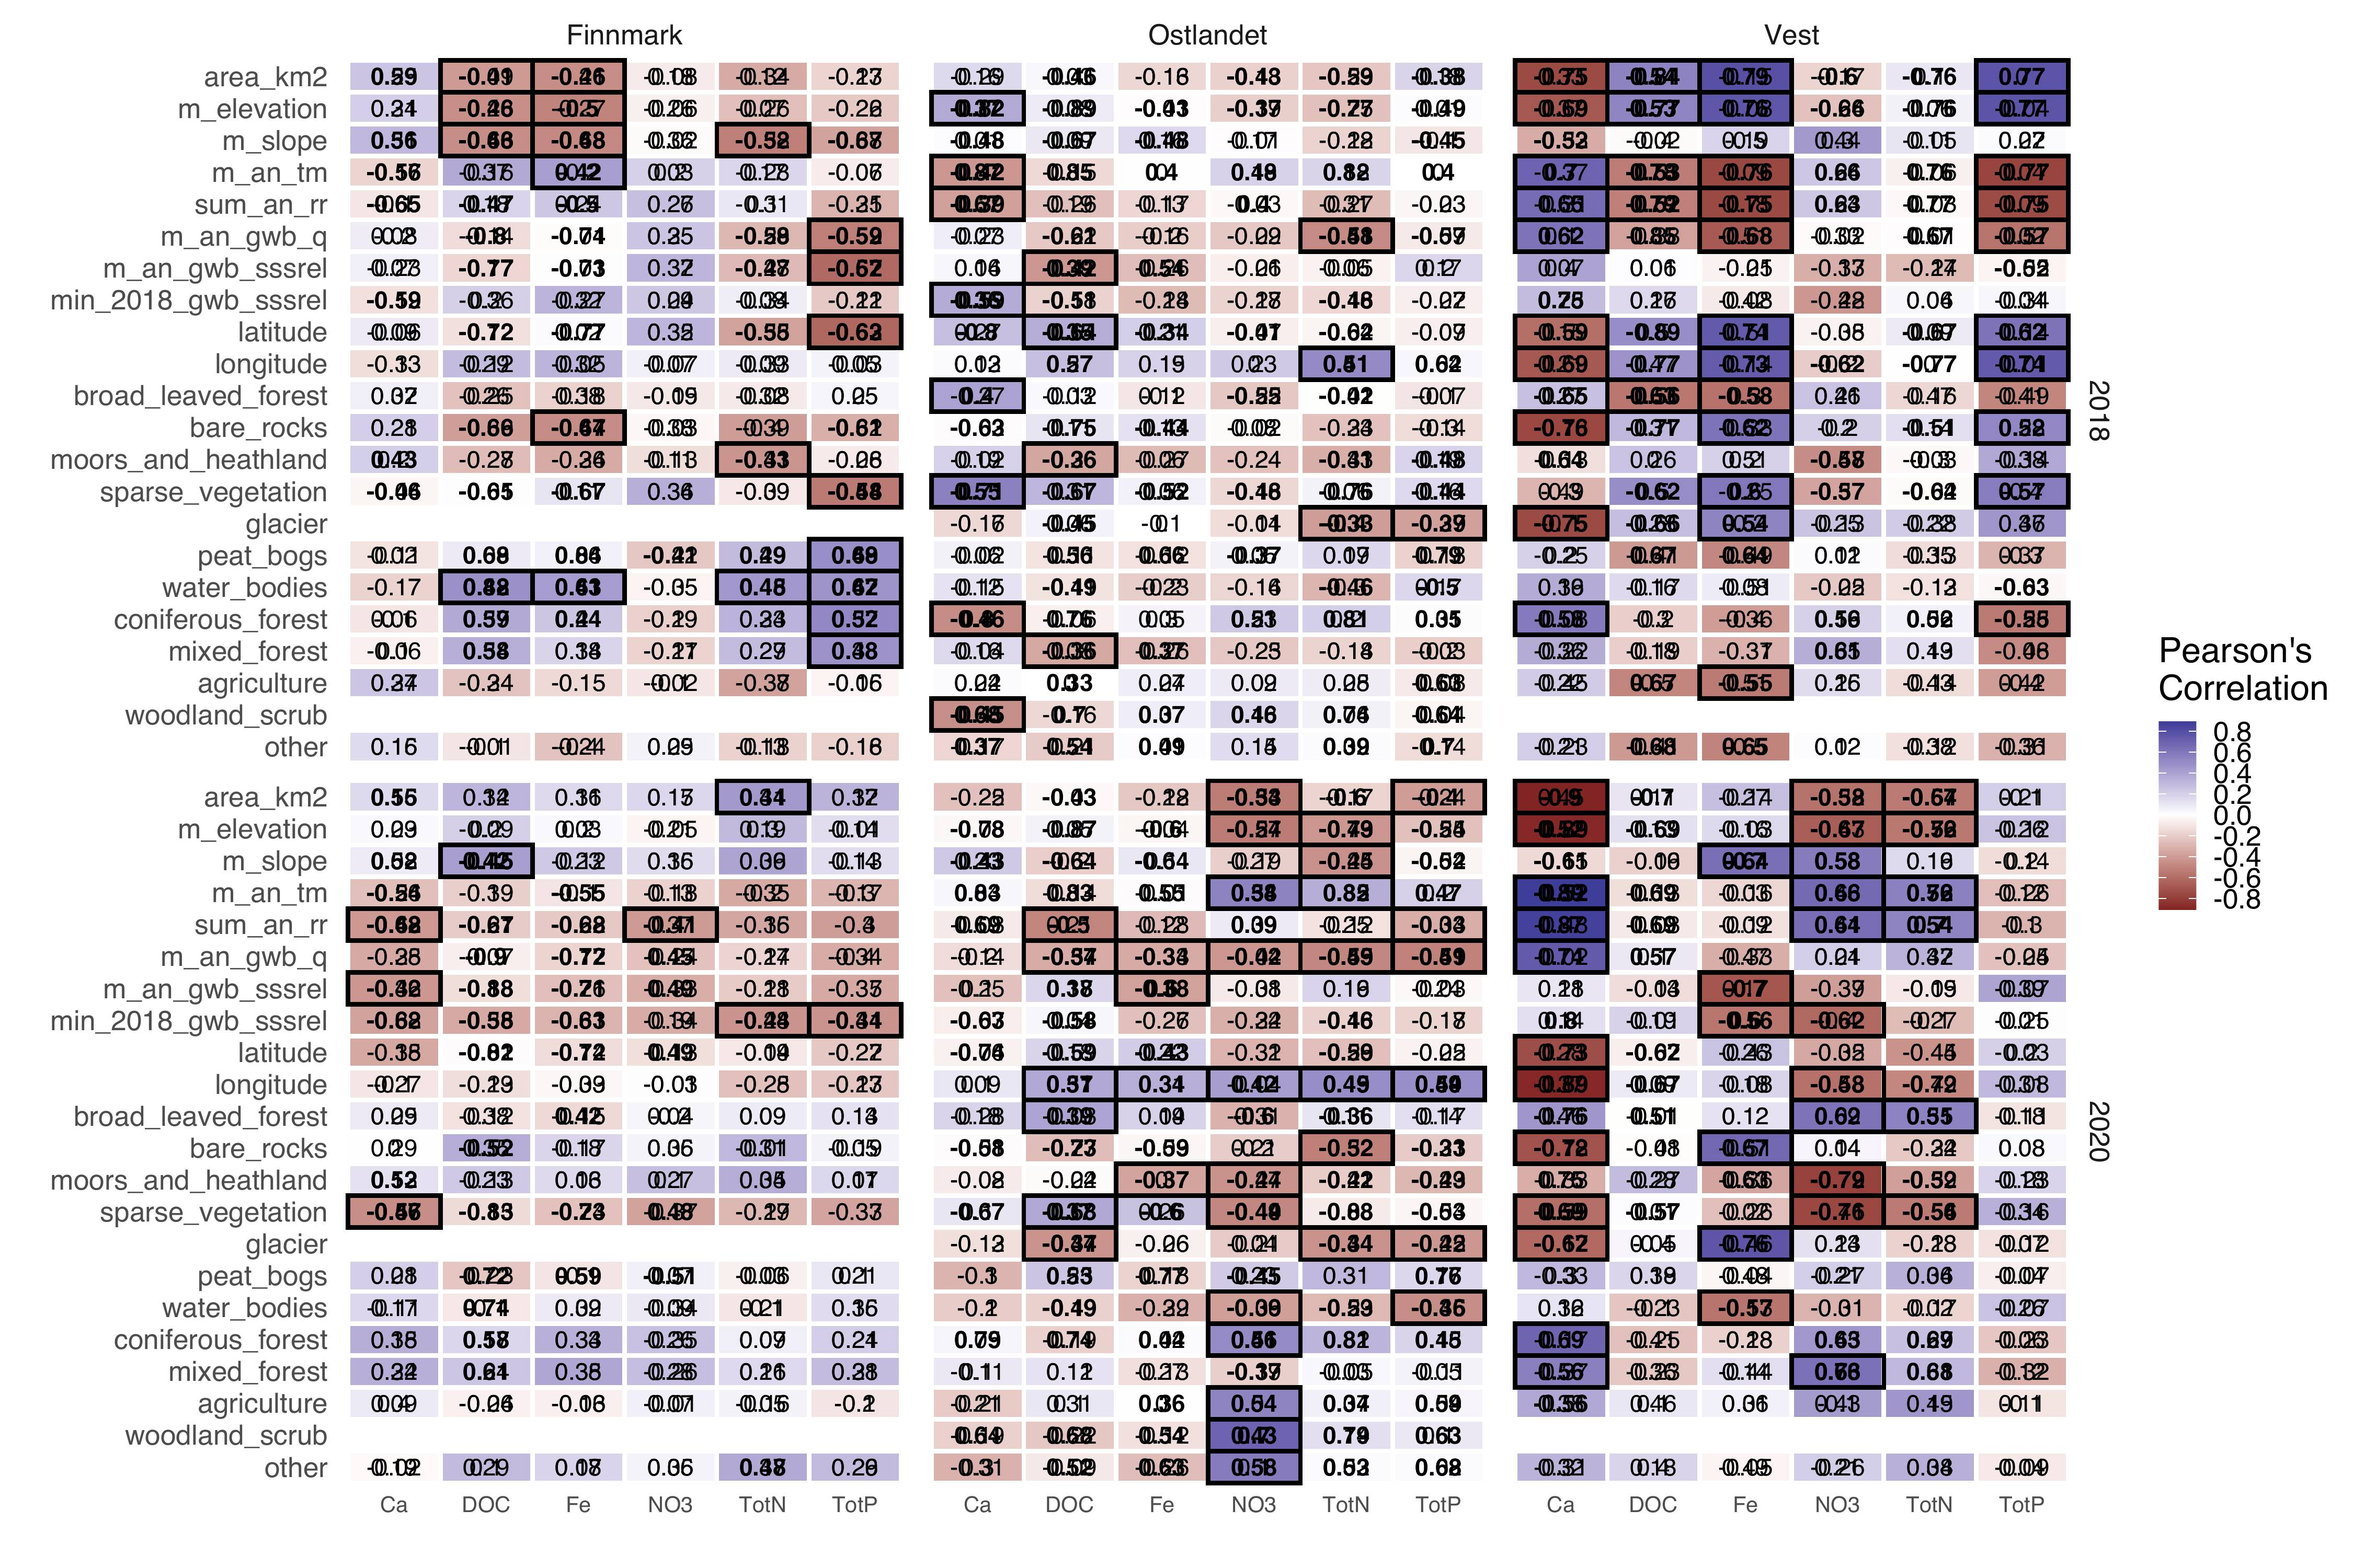
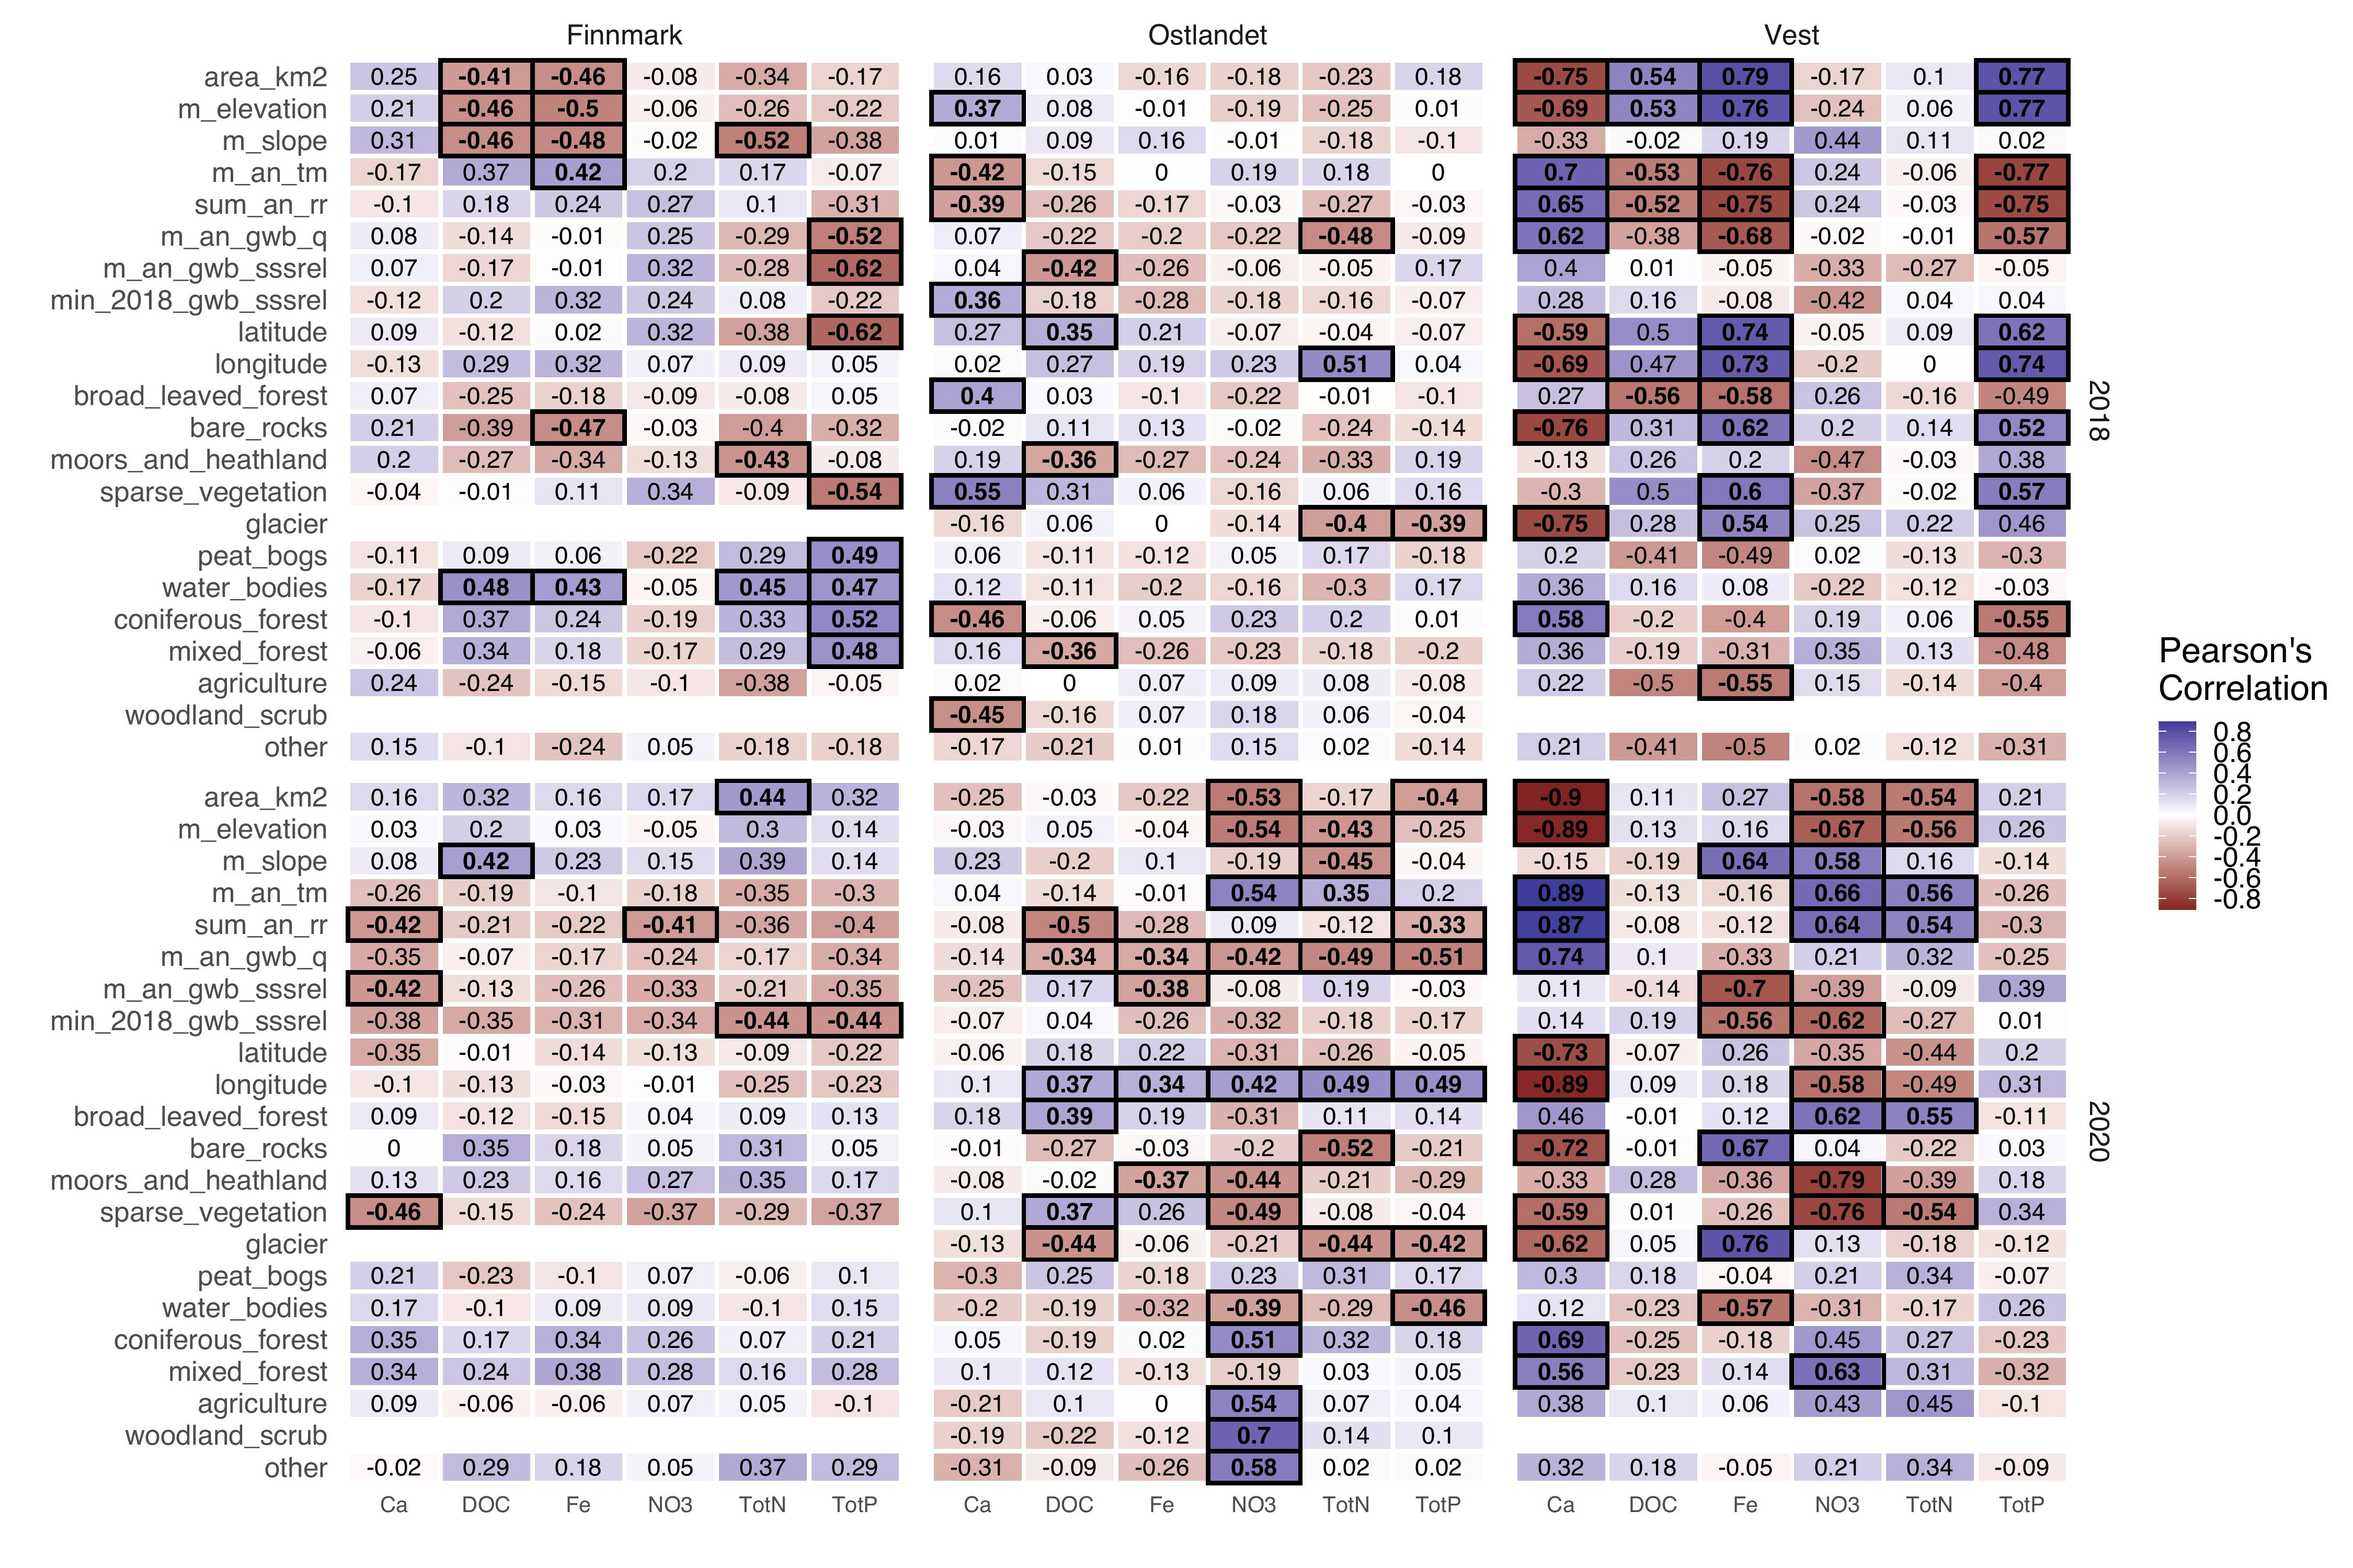
corrplot fix

diff --git a/docs/book_fluxes.html b/docs/book_fluxes.html
@@ -114,6 +114,7 @@ ul.task-list{list-style: none;}
    
   <ul>
   <li><a href="#stream-flow" id="toc-stream-flow" class="nav-link active" data-scroll-target="#stream-flow">Stream Flow</a></li>
+  <li><a href="#fluxes" id="toc-fluxes" class="nav-link" data-scroll-target="#fluxes">Fluxes</a></li>
   <li><a href="#qc" id="toc-qc" class="nav-link" data-scroll-target="#qc">Q/C</a></li>
   <li><a href="#pearsons-correlation" id="toc-pearsons-correlation" class="nav-link" data-scroll-target="#pearsons-correlation">Pearson’s correlation</a></li>
   </ul>
@@ -141,7 +142,7 @@ ul.task-list{list-style: none;}
 <section id="stream-flow" class="level2">
 <h2 class="anchored" data-anchor-id="stream-flow">Stream Flow</h2>
 <div class="panel-tabset">
-<ul class="nav nav-tabs" role="tablist"><li class="nav-item" role="presentation"><a class="nav-link active" id="tabset-1-1-tab" data-bs-toggle="tab" data-bs-target="#tabset-1-1" role="tab" aria-controls="tabset-1-1" aria-selected="true">Flow Regimes</a></li><li class="nav-item" role="presentation"><a class="nav-link" id="tabset-1-2-tab" data-bs-toggle="tab" data-bs-target="#tabset-1-2" role="tab" aria-controls="tabset-1-2" aria-selected="false">Fluxes</a></li></ul>
+<ul class="nav nav-tabs" role="tablist"><li class="nav-item" role="presentation"><a class="nav-link active" id="tabset-1-1-tab" data-bs-toggle="tab" data-bs-target="#tabset-1-1" role="tab" aria-controls="tabset-1-1" aria-selected="true">Flow Regimes</a></li></ul>
 <div class="tab-content">
 <div id="tabset-1-1" class="tab-pane active" role="tabpanel" aria-labelledby="tabset-1-1-tab">
 <div class="quarto-figure quarto-figure-center">
@@ -151,11 +152,11 @@ ul.task-list{list-style: none;}
 </figure>
 </div>
 </div>
-<div id="tabset-1-2" class="tab-pane" role="tabpanel" aria-labelledby="tabset-1-2-tab">
-
 </div>
 </div>
-</div>
+</section>
+<section id="fluxes" class="level2">
+<h2 class="anchored" data-anchor-id="fluxes">Fluxes</h2>
 <div class="panel-tabset">
 <ul class="nav nav-tabs" role="tablist"><li class="nav-item" role="presentation"><a class="nav-link active" id="tabset-2-1-tab" data-bs-toggle="tab" data-bs-target="#tabset-2-1" role="tab" aria-controls="tabset-2-1" aria-selected="true">2018/2020</a></li><li class="nav-item" role="presentation"><a class="nav-link" id="tabset-2-2-tab" data-bs-toggle="tab" data-bs-target="#tabset-2-2" role="tab" aria-controls="tabset-2-2" aria-selected="false">2019/2021</a></li><li class="nav-item" role="presentation"><a class="nav-link" id="tabset-2-3-tab" data-bs-toggle="tab" data-bs-target="#tabset-2-3" role="tab" aria-controls="tabset-2-3" aria-selected="false">’18/’19/’20/’21</a></li></ul>
 <div class="tab-content">
